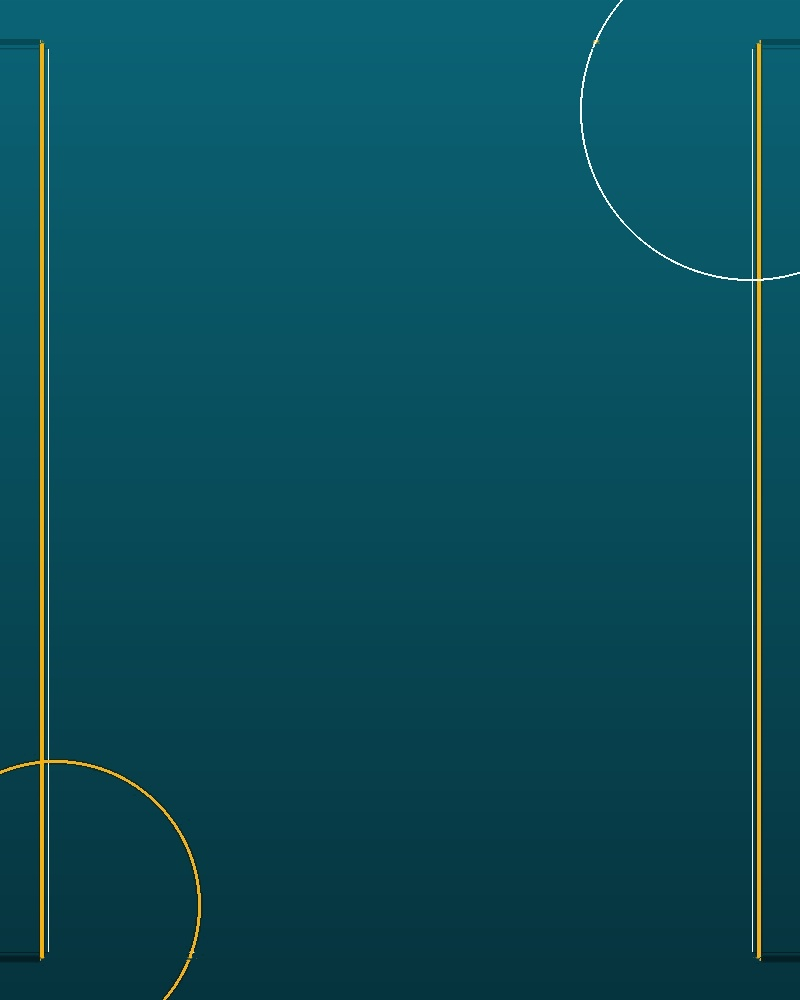
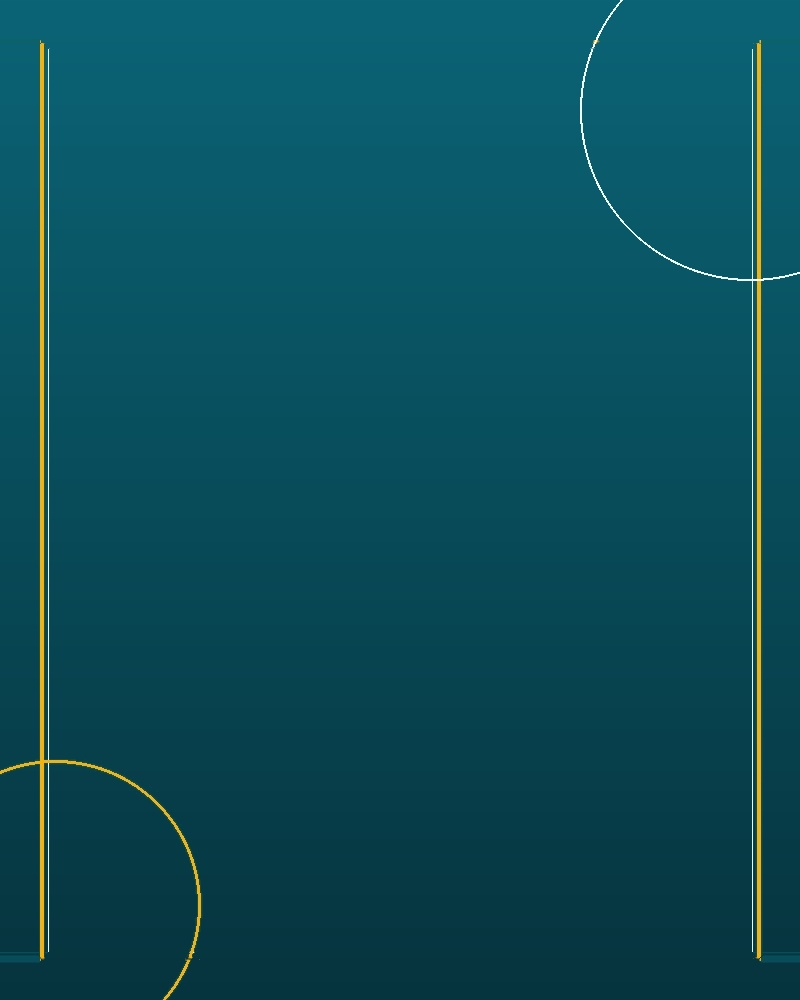
feat(event): continuous infinite loop motion from right to left and synchronize identical poster gradients

diff --git a/projek-administrasipublic/administrasi_public/templates/core/index.html b/projek-administrasipublic/administrasi_public/templates/core/index.html
@@ -499,172 +499,165 @@
           <!-- Slider Track Wrapper -->
           <div id="event-timeline-slider" class="flex overflow-x-auto scroll-smooth no-scrollbar gap-5 sm:gap-6 pb-4 pt-1 -mx-2 px-2 sm:mx-0 sm:px-0" style="scrollbar-width: none; -ms-overflow-style: none;">
             
-            {% for event in daftar_event %}
-              <div class="w-[275px] sm:w-[290px] lg:w-[calc(25%-18px)] shrink-0 flex flex-col items-center">
-                
-                <!-- 1. Label Atas: Tanggal (Gold) & Kategori (White) -->
-                <div class="text-center mb-3 min-h-[46px] flex flex-col justify-end w-full px-2">
-                  <div class="text-xs sm:text-sm font-bold text-[#ffd43b] tracking-wide">
-                    {{ event.tanggal_timeline }}
-                  </div>
-                  <div class="text-[11px] font-medium text-white/90 uppercase tracking-wider mt-0.5">
-                    {{ event.kategori }}
-                  </div>
-                </div>
-
-                <!-- 2. Sumbu Garis Horizontal & Node Jam + Panah Bawah -->
-                <div class="relative w-full flex items-center justify-center my-1">
-                  <!-- Garis horizontal putih melintang menghubungkan antar node -->
-                  <div class="absolute left-0 right-0 top-1/2 -translate-y-1/2 h-0.5 bg-white/70"></div>
+            {% for cycle in "12" %}
+              {% for event in daftar_event %}
+                <div class="event-timeline-card w-[275px] sm:w-[290px] lg:w-[calc(25%-18px)] shrink-0 flex flex-col items-center">
                   
-                  <!-- Lingkaran Node dengan Ikon Jam Persis Referensi -->
-                  <div class="relative z-10 w-8 h-8 rounded-full border-2 border-white flex items-center justify-center text-white text-xs shadow-md" style="background-color: #084c5a;">
-                    <i class="far fa-clock text-xs text-white"></i>
+                  <!-- 1. Label Atas: Tanggal (Gold) & Kategori (White) -->
+                  <div class="text-center mb-3 min-h-[46px] flex flex-col justify-end w-full px-2">
+                    <div class="text-xs sm:text-sm font-bold text-[#ffd43b] tracking-wide">
+                      {{ event.tanggal_timeline }}
+                    </div>
+                    <div class="text-[11px] font-medium text-white/90 uppercase tracking-wider mt-0.5">
+                      {{ event.kategori }}
+                    </div>
                   </div>
-                </div>
 
-                <!-- Panah Segitiga Menunjuk ke Kartu -->
-                <div class="w-0 h-0 border-l-[7px] border-l-transparent border-r-[7px] border-r-transparent border-t-[8px] border-t-white mx-auto mb-2.5"></div>
+                  <!-- 2. Sumbu Garis Horizontal & Node Jam + Panah Bawah -->
+                  <div class="relative w-full flex items-center justify-center my-1">
+                    <!-- Garis horizontal putih melintang menghubungkan antar node -->
+                    <div class="absolute left-0 right-0 top-1/2 -translate-y-1/2 h-0.5 bg-white/70"></div>
+                    
+                    <!-- Lingkaran Node dengan Ikon Jam Persis Referensi -->
+                    <div class="relative z-10 w-8 h-8 rounded-full border-2 border-white flex items-center justify-center text-white text-xs shadow-md" style="background-color: #084c5a;">
+                      <i class="far fa-clock text-xs text-white"></i>
+                    </div>
+                  </div>
 
-                <!-- 3. Kartu Poster 4:5 Sesuai Sketsa Portal UNTAD -->
-                <div class="w-full bg-white rounded-xl border-2 border-[#fab005] overflow-hidden shadow-2xl flex flex-col justify-between group hover:-translate-y-1.5 transition-all duration-300">
-                  
-                  <!-- Wadah Poster Rasio 4:5 -->
-                  <a href="{% url 'event_detail' event.slug %}" class="relative block w-full aspect-[4/5] overflow-hidden bg-slate-100">
-                    {% if event.poster %}
-                      <img src="{{ event.poster.url }}" alt="{{ event.judul }}" class="w-full h-full object-cover group-hover:scale-105 transition-transform duration-500" loading="lazy">
-                    {% else %}
-                      <div class="w-full h-full flex flex-col items-center justify-center bg-gradient-to-b from-[#0b6476] to-[#05313a] text-white p-5 text-center">
-                        <i class="fas fa-calendar-check text-3xl text-[#fab005] mb-2"></i>
-                        <span class="text-[10px] font-bold text-amber-200 uppercase tracking-wider mb-1">{{ event.kategori }}</span>
-                        <span class="text-xs font-bold line-clamp-3 leading-snug">{{ event.judul }}</span>
+                  <!-- Panah Segitiga Menunjuk ke Kartu -->
+                  <div class="w-0 h-0 border-l-[7px] border-l-transparent border-r-[7px] border-r-transparent border-t-[8px] border-t-white mx-auto mb-2.5"></div>
+
+                  <!-- 3. Kartu Poster 4:5 Sesuai Sketsa Portal UNTAD -->
+                  <div class="w-full bg-white rounded-xl border-2 border-[#fab005] overflow-hidden shadow-2xl flex flex-col justify-between group hover:-translate-y-1.5 transition-all duration-300">
+                    
+                    <!-- Wadah Poster Rasio 4:5 -->
+                    <a href="{% url 'event_detail' event.slug %}" class="relative block w-full aspect-[4/5] overflow-hidden bg-slate-100">
+                      {% if event.poster %}
+                        <img src="{{ event.poster.url }}?v=20261123teal5" alt="{{ event.judul }}" class="w-full h-full object-cover group-hover:scale-105 transition-transform duration-500" loading="lazy">
+                      {% else %}
+                        <div class="w-full h-full flex flex-col items-center justify-center bg-gradient-to-b from-[#0b6476] to-[#05313a] text-white p-5 text-center">
+                          <i class="fas fa-calendar-check text-3xl text-[#fab005] mb-2"></i>
+                          <span class="text-[10px] font-bold text-amber-200 uppercase tracking-wider mb-1">{{ event.kategori }}</span>
+                          <span class="text-xs font-bold line-clamp-3 leading-snug">{{ event.judul }}</span>
+                        </div>
+                      {% endif %}
+                    </a>
+
+                    <!-- Judul & Info di Bawah Poster -->
+                    <div class="p-3.5 bg-white flex flex-col justify-between flex-1">
+                      <div>
+                        <h4 class="text-xs font-bold text-slate-800 line-clamp-2 leading-snug group-hover:text-[#0b7285] transition" title="{{ event.judul }}">
+                          <a href="{% url 'event_detail' event.slug %}">{{ event.judul }}</a>
+                        </h4>
+                        {% if event.lokasi %}
+                          <p class="text-[11px] text-slate-500 mt-1.5 flex items-center gap-1.5 truncate" title="{{ event.lokasi }}">
+                            <i class="fas fa-map-marker-alt text-rose-500 text-[10px] shrink-0"></i>
+                            <span class="truncate">{{ event.lokasi }}</span>
+                          </p>
+                        {% endif %}
                       </div>
-                    {% endif %}
-                  </a>
 
-                  <!-- Judul & Info di Bawah Poster -->
-                  <div class="p-3.5 bg-white flex flex-col justify-between flex-1">
-                    <div>
-                      <h4 class="text-xs font-bold text-slate-800 line-clamp-2 leading-snug group-hover:text-[#0b7285] transition" title="{{ event.judul }}">
-                        <a href="{% url 'event_detail' event.slug %}">{{ event.judul }}</a>
-                      </h4>
-                      {% if event.lokasi %}
-                        <p class="text-[11px] text-slate-500 mt-1.5 flex items-center gap-1.5 truncate" title="{{ event.lokasi }}">
-                          <i class="fas fa-map-marker-alt text-rose-500 text-[10px] shrink-0"></i>
-                          <span class="truncate">{{ event.lokasi }}</span>
-                        </p>
-                      {% endif %}
-                    </div>
-
-                    <div class="pt-2.5 mt-2.5 border-t border-slate-100 flex items-center justify-between text-[11px]">
-                      <a href="{% url 'event_detail' event.slug %}" class="font-bold text-[#0b7285] hover:text-[#084c5a] inline-flex items-center gap-1">
-                        Detail <i class="fas fa-arrow-right text-[9px]"></i>
-                      </a>
-                      {% if event.link_pendaftaran %}
-                        <a href="{{ event.link_pendaftaran }}" target="_blank" rel="noopener noreferrer" class="font-semibold text-teal-700 hover:underline inline-flex items-center gap-0.5">
-                          Daftar <i class="fas fa-external-link-alt text-[8px]"></i>
+                      <div class="pt-2.5 mt-2.5 border-t border-slate-100 flex items-center justify-between text-[11px]">
+                        <a href="{% url 'event_detail' event.slug %}" class="font-bold text-[#0b7285] hover:text-[#084c5a] inline-flex items-center gap-1">
+                          Detail <i class="fas fa-arrow-right text-[9px]"></i>
                         </a>
-                      {% endif %}
+                        {% if event.link_pendaftaran %}
+                          <a href="{{ event.link_pendaftaran }}" target="_blank" rel="noopener noreferrer" class="font-semibold text-teal-700 hover:underline inline-flex items-center gap-0.5">
+                            Daftar <i class="fas fa-external-link-alt text-[8px]"></i>
+                          </a>
+                        {% endif %}
+                      </div>
                     </div>
+
                   </div>
 
                 </div>
-
-              </div>
+              {% endfor %}
             {% endfor %}
 
           </div>
 
         </div>
 
-        <!-- Script Navigasi Scroll Horizontal Timeline & Animasi Otomatis Berjalan -->
+        <!-- Script Navigasi Timeline: Bergerak Halus Dari Kanan ke Kiri Berulang (Infinite Loop) -->
         <script>
           (function() {
-            let autoSlideTimer = null;
-            let isHovered = false;
+            const slider = document.getElementById('event-timeline-slider');
+            if (!slider) return;
 
-            function getScrollStep() {
-              const slider = document.getElementById('event-timeline-slider');
-              if (!slider) return 320;
-              const firstCard = slider.querySelector('.shrink-0');
-              return firstCard ? (firstCard.offsetWidth + 24) : Math.round(slider.offsetWidth * 0.75);
+            let isPaused = false;
+            let manualTimer = null;
+            let scrollSpeed = 0.85; // Kecepatan gerak kontinu dari kanan ke kiri (~50px/detik)
+            let animationFrameId = null;
+
+            function getHalfWidth() {
+              return slider.scrollWidth / 2;
             }
 
+            function getStep() {
+              const card = slider.querySelector('.event-timeline-card');
+              return card ? (card.offsetWidth + 24) : 310;
+            }
+
+            // Animasi kontinu 60fps menggunakan requestAnimationFrame
+            function tick() {
+              if (!isPaused) {
+                slider.scrollLeft += scrollSpeed;
+                const half = getHalfWidth();
+                // Saat mencapai ujung 1 set kartu, reset ke awal tanpa jeda visual (seamless looping)
+                if (half > 0 && slider.scrollLeft >= half) {
+                  slider.scrollLeft -= half;
+                }
+              }
+              animationFrameId = requestAnimationFrame(tick);
+            }
+
+            // Jalankan animasi kontinu
+            animationFrameId = requestAnimationFrame(tick);
+
+            // Kontrol tombol manual panah kiri dan kanan
             window.scrollEventTimeline = function(direction) {
-              const slider = document.getElementById('event-timeline-slider');
-              if (!slider) return;
-              const step = getScrollStep();
+              isPaused = true;
+              if (manualTimer) clearTimeout(manualTimer);
+
+              const step = getStep();
+              const half = getHalfWidth();
+
+              if (direction < 0 && slider.scrollLeft <= 5 && half > 0) {
+                slider.scrollLeft += half;
+              }
+
               slider.scrollBy({
                 left: direction * step,
                 behavior: 'smooth'
               });
-              resetAutoSlide();
+
+              // Lanjutkan gerak otomatis setelah 3 detik interaksi tombol
+              manualTimer = setTimeout(function() {
+                isPaused = false;
+              }, 3000);
             };
 
-            function stepAutoSlide() {
-              const slider = document.getElementById('event-timeline-slider');
-              if (!slider || isHovered) return;
-              
-              const maxScroll = slider.scrollWidth - slider.clientWidth;
-              // Jika sudah di ujung paling kanan, kembali halus ke awal (looping)
-              if (slider.scrollLeft >= maxScroll - 15) {
-                slider.scrollTo({ left: 0, behavior: 'smooth' });
-              } else {
-                const step = getScrollStep();
-                slider.scrollBy({ left: step, behavior: 'smooth' });
-              }
-            }
-
-            function startAutoSlide() {
-              stopAutoSlide();
-              autoSlideTimer = setInterval(stepAutoSlide, 3500);
-            }
-
-            function stopAutoSlide() {
-              if (autoSlideTimer) {
-                clearInterval(autoSlideTimer);
-                autoSlideTimer = null;
-              }
-            }
-
-            function resetAutoSlide() {
-              stopAutoSlide();
-              if (!isHovered) {
-                autoSlideTimer = setInterval(stepAutoSlide, 4500);
-              }
-            }
-
-            document.addEventListener('DOMContentLoaded', function() {
-              const slider = document.getElementById('event-timeline-slider');
-              if (!slider) return;
-
-              // Jeda saat cursor diarahkan ke kartu agar pengunjung bisa membaca/klik
-              slider.addEventListener('mouseenter', function() {
-                isHovered = true;
-                stopAutoSlide();
-              });
-
-              slider.addEventListener('mouseleave', function() {
-                isHovered = false;
-                startAutoSlide();
-              });
-
-              // Dukungan gesture touch di HP
-              slider.addEventListener('touchstart', function() {
-                isHovered = true;
-                stopAutoSlide();
-              }, { passive: true });
-
-              slider.addEventListener('touchend', function() {
-                isHovered = false;
-                setTimeout(startAutoSlide, 3000);
-              }, { passive: true });
-
-              // Mulai animasi gerak otomatis setelah web dibuka (jeda awal 1.2 detik)
-              setTimeout(function() {
-                startAutoSlide();
-              }, 1200);
+            // Jeda otomatis saat kursor mouse berada di atas kartu (pengunjung bisa baca/klik)
+            slider.addEventListener('mouseenter', function() {
+              isPaused = true;
             });
+
+            slider.addEventListener('mouseleave', function() {
+              isPaused = false;
+            });
+
+            // Dukungan touch di HP / Tablet
+            slider.addEventListener('touchstart', function() {
+              isPaused = true;
+            }, { passive: true });
+
+            slider.addEventListener('touchend', function() {
+              if (manualTimer) clearTimeout(manualTimer);
+              manualTimer = setTimeout(function() {
+                isPaused = false;
+              }, 2500);
+            }, { passive: true });
           })();
         </script>
 
